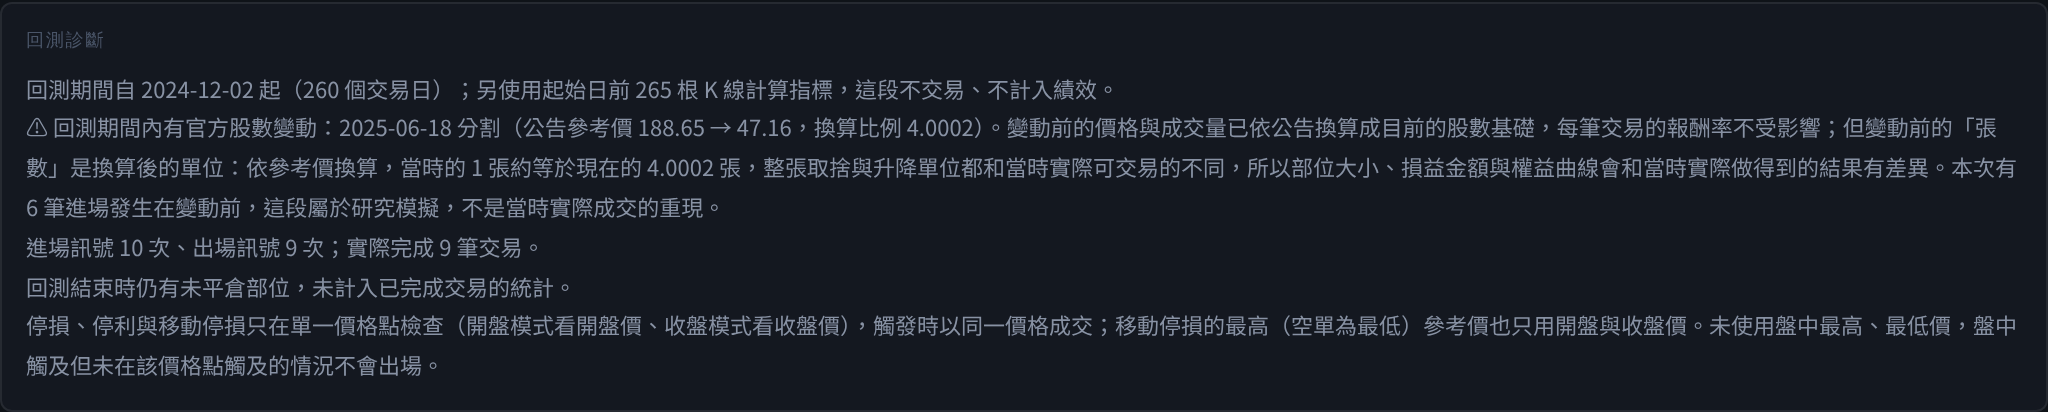
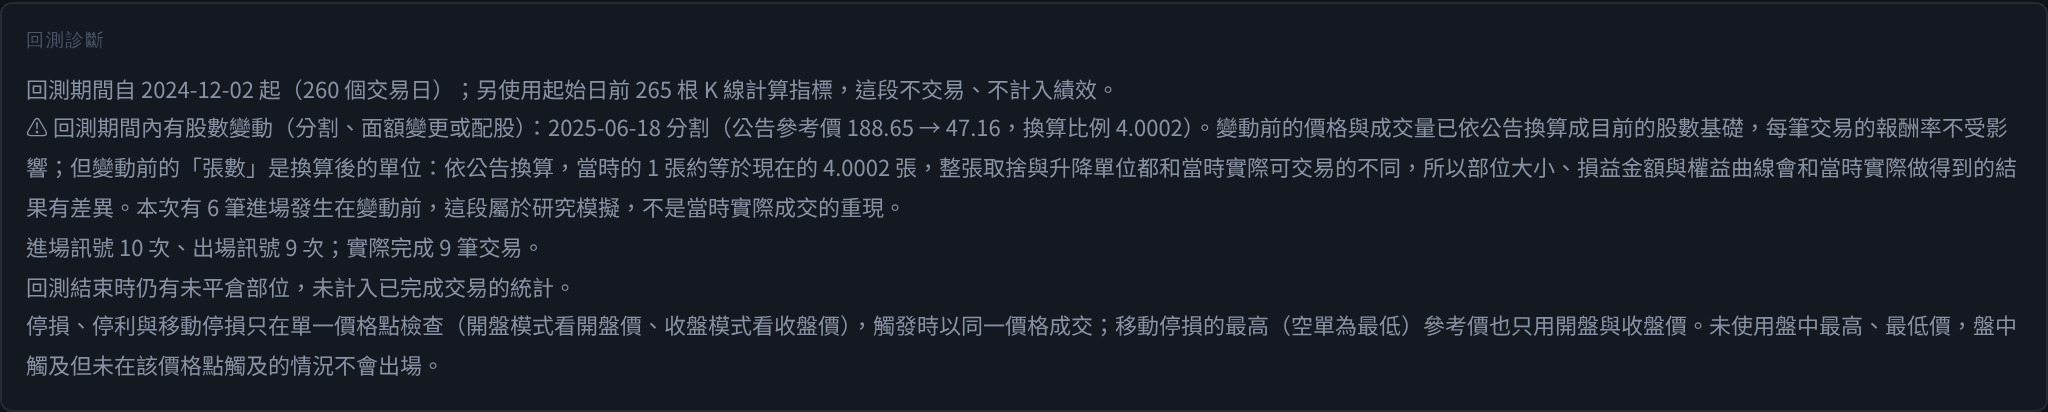
/history 一律採用股數還原價：修正配股還原被丟棄，並把配股換算事件傳入回測揭露
- server.js：不再只在有官方分割時才換成還原價；純現金股利維持原始可交易價位
- quant.js：adjustPrices 回傳 stockDividends（日期、每股配股元數、換算比例）
- /history：官方分割與配股依日期排序後一併放入 splitAdjusted
- 回測：診斷揭露配股換算單位；多個事件時以最晚事件日判斷變動前進場
- 測試：API 級配股案例（Codex 重現）與純現金股利不改價對照

Claude-Session: https://claude.ai/code/session_01DpkuQ9r5fKXnasCc2NPbUP

Changed region(s): [[0.0938, 0.2621, 1.0, 0.3495], [0.0, 0.3786, 1.0, 0.4369], [0.0, 0.466, 0.4375, 0.5534]]

diff --git a/frontend/js/bt-ui.js b/frontend/js/bt-ui.js
@@ -575,8 +575,8 @@ function diagHTML(dg, m, cfg) {
   if (dg.startDelayed) lines.push('起始日前的資料不足 ' + dg.lookback + ' 根（指標所需回看長度），' + dg.tradeFrom + ' 之前不交易，但這段仍計入績效期間。');
   else if (!dg.preBars) lines.push('前 ' + dg.warmup + ' 根 K 線用於指標暖機、不交易；可交易期間自 ' + (dg.tradeFrom || '—') + ' 起。');
   if (dg.priceLimit && dg.priceLimit.limit === null) lines.push('漲跌幅依據：' + dg.priceLimit.basis + (dg.priceLimit.known ? '。不設漲跌幅的商品無法用漲跌幅偵測未收錄的公司行動，只依官方公告還原。' : '。分類無法確認時，超過 10% 且查無公告的變動會停止回測，但不代表違反漲跌幅規則。'));
-  if (dg.shareChanges && dg.shareChanges.length) lines.push('⚠ 回測期間內有官方股數變動：' + dg.shareChanges.map(function(x) { return x.date + ' ' + x.type + '（' + (x.before && x.after ? '公告參考價 ' + x.before + ' → ' + x.after + '，' : '') + '換算比例 ' + x.ratio + '）'; }).join('、') +
-    '。變動前的價格與成交量已依公告換算成目前的股數基礎，每筆交易的報酬率不受影響；但變動前的「張數」是換算後的單位：依參考價換算，當時的 1 張約等於現在的 ' + dg.shareChanges.map(function(x) { return x.ratio; }).join('、') +
+  if (dg.shareChanges && dg.shareChanges.length) lines.push('⚠ 回測期間內有股數變動（分割、面額變更或配股）：' + dg.shareChanges.map(function(x) { return x.date + ' ' + x.type + '（' + (x.before && x.after ? '公告參考價 ' + x.before + ' → ' + x.after + '，' : '') + (x.stock ? '每股配股 ' + x.stock + ' 元，' : '') + '換算比例 ' + x.ratio + '）'; }).join('、') +
+    '。變動前的價格與成交量已依公告換算成目前的股數基礎，每筆交易的報酬率不受影響；但變動前的「張數」是換算後的單位：依公告換算，當時的 1 張約等於現在的 ' + dg.shareChanges.map(function(x) { return x.ratio; }).join('、') +
     ' 張，整張取捨與升降單位都和當時實際可交易的不同，所以部位大小、損益金額與權益曲線會和當時實際做得到的結果有差異。' + (dg.entriesBeforeShareChange ? '本次有 ' + dg.entriesBeforeShareChange + ' 筆進場發生在變動前，' : '') + '這段屬於研究模擬，不是當時實際成交的重現。');
   lines.push('進場訊號 ' + dg.entrySignals + ' 次、出場訊號 ' + dg.exitSignals + ' 次；實際完成 ' + m.tradeCount + ' 筆交易。');
   if (dg.rejected) lines.push('有 ' + dg.rejected + ' 次進場訊號未成交' + (dg.rejectedCash ? '，其中 ' + dg.rejectedCash + ' 次是現金不足以買進一張（各次所需含手續費金額介於 ' + Number(dg.minCashNeeded).toLocaleString() + '～' + Number(dg.maxCashNeeded).toLocaleString() + ' 元，依當次成交參考價而定）。本系統以整張交易，未模擬零股。' : '。'));

diff --git a/backend/src/quant.js b/backend/src/quant.js
@@ -35,10 +35,10 @@ function adjustPrices(hist, divEvents, actions, opts) {
     const x = ev.get(e.date) || { cash: 0, stock: 0 }; x.cash += e.cash || 0; x.stock += e.stock || 0; ev.set(e.date, x);
   }
   const act = new Map(); for (const x of actions || []) if (x.before > 0 && x.after > 0) act.set(x.date, x);
-  const fS = new Array(n).fill(1), fD = new Array(n).fill(1), splits = [], unexplained = []; let cs = 1, cd = 1, nDiv = 0, shareEvents = 0;
+  const fS = new Array(n).fill(1), fD = new Array(n).fill(1), splits = [], stockDividends = [], unexplained = []; let cs = 1, cd = 1, nDiv = 0, shareEvents = 0;
   for (let i = n - 1; i >= 1; i--) {
     fS[i] = cs; fD[i] = cd; const prev = c[i - 1], e = ev.get(d[i]), ac = act.get(d[i]); let ref = prev, share = 1;
-    if (e && prev > 0) { if (e.cash > 0 && e.cash < prev) { cd *= (prev - e.cash) / prev; ref = prev - e.cash; nDiv++; } if (e.stock > 0) { share = 1 / (1 + e.stock / 10); ref *= share; shareEvents++; } }
+    if (e && prev > 0) { if (e.cash > 0 && e.cash < prev) { cd *= (prev - e.cash) / prev; ref = prev - e.cash; nDiv++; } if (e.stock > 0) { share = 1 / (1 + e.stock / 10); ref *= share; shareEvents++; stockDividends.push({ date: d[i], type: "配股", stock: e.stock, ratio: round(1 + e.stock / 10, 4), source: "股利紀錄" }); } }
     if (ac) { const k = ac.after / ac.before; share *= k; ref *= k; splits.push({ date: d[i], ratio: round(ac.before / ac.after, 4), type: ac.type || "股數變動", before: ac.before, after: ac.after, official: true }); }
     const resid = ref > 0 ? c[i] / ref - 1 : 0;
     if (i >= 10 && limit !== null && Math.abs(resid) > limit) unexplained.push(known ? { date: d[i], movePct: round(resid * 100, 1) } : { date: d[i], movePct: round(resid * 100, 1), unverified: true }); // 超過漲跌幅限制（或分類不明時超過 10%）又查無公告
@@ -47,7 +47,8 @@ function adjustPrices(hist, divEvents, actions, opts) {
   fS[0] = cs; fD[0] = cd;
   const mk = (withDiv) => { const f = (i) => fS[i] * (withDiv ? fD[i] : 1); return { code: hist.code, dates: d, opens: o.map((x, i) => x * f(i)), highs: h.map((x, i) => x * f(i)), lows: l.map((x, i) => x * f(i)), closes: c.map((x, i) => x * f(i)), volumes: v.map((x, i) => x / fS[i]) }; };
   const changed = splits.length > 0 || shareEvents > 0; // 官方股數變動或配股：價位序列才需要換算
-  return { price: changed ? mk(false) : hist, total: changed || nDiv > 0 ? mk(true) : hist, splits, unexplained, dividendsApplied: nDiv, changed: changed || nDiv > 0 };
+  // stockDividends：已還原的配股（股票股利）事件，與 splits 一樣會改變可交易價位的換算單位
+  return { price: changed ? mk(false) : hist, total: changed || nDiv > 0 ? mk(true) : hist, splits, stockDividends, unexplained, dividendsApplied: nDiv, changed: changed || nDiv > 0 };
 }
 
 /** 從官方基金中文名稱解析槓桿／反向倍數（例：「單日正向2倍」「單日反向一倍」「單日正向兩倍」） */

diff --git a/frontend/js/bt-core.js b/frontend/js/bt-core.js
@@ -990,7 +990,8 @@ var ExecutionEngine = (function() {
     // 期間內有官方股數變動（分割、反分割、面額變更）：變動前的價格已換算成目前股數基礎。
     // 每筆交易的報酬率不受影響；但變動前的「張數」是換算後的單位，不是當時實際可買的整張，部位大小、損益金額與權益曲線會不同。
     diag.shareChanges = (config.splitAdjusted || []).filter(function(x) { return x && x.date > diag.periodStart && x.date <= dates[n - 1]; })
-      .map(function(x) { return { date: x.date, type: x.type || '股數變動', ratio: +x.ratio, before: x.before, after: x.after }; });
+      .map(function(x) { return { date: x.date, type: x.type || '股數變動', ratio: +x.ratio, before: x.before, after: x.after, stock: x.stock }; })
+      .sort(function(a, b) { return a.date < b.date ? -1 : a.date > b.date ? 1 : 0; });
     if (diag.shareChanges.length) { var lastChg = diag.shareChanges[diag.shareChanges.length - 1].date;
       diag.entriesBeforeShareChange = trades.filter(function(t) { return t.type === 'entry' && t.date < lastChg; }).length; }
     return { equity, trades, finalPortfolio: pf, diag: diag };

diff --git a/backend/server.js b/backend/server.js
@@ -85,7 +85,9 @@ async function api(req, res, url, ip) {
     const limitInfo = priceLimit(C, cls, clsFail);
     if (raw.closes.length > 1) {
       const a = adjustPrices(raw, divEv, acts || [], limitOpts(limitInfo));
-      if (a.splits.length) { h = a.price; splitAdjusted = a.splits; } // 回測使用可交易價位：只還原股數變動，不還原現金股利
+      // 回測使用可交易價位：一律採用股數還原後的序列（官方分割、面額變更與配股）；純現金股利不改價位（a.price 即原始序列）。
+      // 舊版只在有官方分割時才換成還原價，配股的還原被丟棄，卻仍回報檢查完成。
+      h = a.price; splitAdjusted = a.splits.concat(a.stockDividends).sort((x, y) => (x.date < y.date ? -1 : x.date > y.date ? 1 : 0)); // 換算事件一併回傳，回測據此揭露
       // 只有在分割清單與股利資料都取得時，才能區分「無法解釋的跳動」與正常除息；否則回報未檢查，不冒然判定
       if (acts && divEv) unexplained = a.unexplained;
     }

diff --git a/docs/REVIEW-R2-2026-11-22.md b/docs/REVIEW-R2-2026-11-22.md
@@ -184,6 +184,35 @@
 
 **測試**：00646 顯示「不適用」；00631L 為前收 × 1.2 並取到升降單位；分類取得失敗時顯示「未計算」；2330 的文字與數字不變。
 
+### 6. `/history` 丟棄配股還原（Codex 重現的漏接）
+
+**問題**：`server.js` 只有在「有官方分割」時，才把回應換成還原價。配股（股票股利）在還原函式中有正確換算，但不在 `splits` 清單裡，所以還原結果被丟棄，回應卻仍是 `unexplained: []`、`checkNote: null`，看起來像已完整檢查。
+
+結果：10% 配股的除權缺口，被當成真實跌幅交給回測。
+
+**Codex 的重現案例**（測試資料）：80 根日 K，前 40 根 110、後 40 根 100，第 40 根配股每股 1 元。`310a20d` 回傳的首根收盤是 110。
+
+**修正**：
+- `server.js`：`/history` 一律採用股數還原後的序列。純現金股利不改可交易價位，因為還原函式在只有現金股利時，回傳的就是原始序列。
+- `quant.js`：還原函式另外回傳 `stockDividends`（日期、每股配股元數、換算比例）。
+- `/history`：把官方分割與配股依日期排序，一起放在 `splitAdjusted` 回傳。
+- 回測：診斷揭露配股的換算單位，文字改為「股數變動（分割、面額變更或配股）」；多個事件時，取最晚的事件日判斷「變動前進場筆數」。
+
+**API 級測試**：
+
+| 情況 | `310a20d` | 本版 |
+|---|---|---|
+| 配股：首根收盤 | 110（未還原） | 100（110 ÷ 1.1） |
+| 配股：首根成交量 | 原始值 | × 1.1 |
+| 配股：`splitAdjusted` | `[]` | `[{事件日, 配股, 每股 1 元, 換算比例 1.1}]` |
+| 配股：`unexplained`／`checkNote` | `[]`／`null` | `[]`／`null` |
+| 配股：回測診斷 | — | 列出配股與換算比例 |
+| 對照：純現金股利 10 元 | 價格逐值等於原始資料 | 價格與成交量逐值等於原始資料；`splitAdjusted: []` |
+
+**限制**：
+- 存下的真實資料中沒有配股案例；為了節省 FinMind 額度，沒有另外抓取。真實股利資料源會產生配股事件（以除權交易日為準），但這次只用測試資料驗證。
+- 掃描沒有股利資料，所以不做配股還原（既有限制，本輪未改）。10% 配股的除權缺口小於 10.5% 的偵測門檻，所以掃描的技術指標會把它當成一般跌幅。
+
 ---
 
 ## 二、原本正確的證據
@@ -215,9 +244,9 @@
 
 | 驗證 | 結果 | 性質 |
 |---|---|---|
-| 單元與回歸測試 | 63 項通過：新增 5 項、改寫 1 項（漲跌幅分類）、擴充 1 項（`/history` 檢查狀態） | 實際執行 |
-| 新測試能否抓到原問題 | 把測試檔放到 `643d4f8` 執行：6 項失敗（分類、`/history` 缺資料清單、空單費稅、公司行動阻擋、分類貫穿、`/history` 漲跌幅依據），其餘通過。漲停價測試放到 `63e6a05`（第二輪第一次推送）執行：只有該項失敗，其餘 62 項通過 | 實際執行 |
-| 與 `643d4f8`、`63e6a05` 逐欄位比對 | 兩者都是 48 檔 × 16 類共 768 項，差異 0；掃描 24 組，差異 0（示範 ETF 皆為國內成分，股票仍為 10%） | 示範資料 |
+| 單元與回歸測試 | 64 項通過：新增 6 項、改寫 1 項（漲跌幅分類）、擴充 1 項（`/history` 檢查狀態） | 實際執行 |
+| 新測試能否抓到原問題 | 把測試檔放到 `643d4f8` 執行：6 項失敗（分類、`/history` 缺資料清單、空單費稅、公司行動阻擋、分類貫穿、`/history` 漲跌幅依據），其餘通過。漲停價測試放到 `63e6a05`（第二輪第一次推送）執行：只有該項失敗，其餘 62 項通過。配股測試放到 `310a20d` 執行：只有該項失敗（首根 110），其餘 63 項通過 | 實際執行 |
+| 與 `643d4f8`、`63e6a05`、`310a20d` 逐欄位比對 | 三者都是 48 檔 × 16 類共 768 項，差異 0；掃描 24 組，差異 0（示範 ETF 皆為國內成分，股票仍為 10%；示範資料沒有配股，所以 `/history` 輸出不變） | 示範資料 |
 | 瀏覽器回歸 | 47 項通過（新增 4 項：示範標記、匯出標記、備援來源阻擋、缺股利資料阻擋），頁面錯誤 0 | 示範資料 |
 | 真實資料 | 台積電整張回測權益不變；0050 分割揭露畫面重跑正常；證交所分類經正式程式即時抓取 | 本機 |
 
